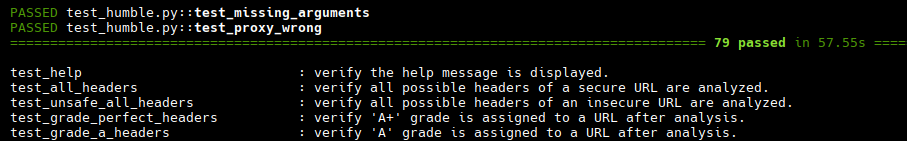
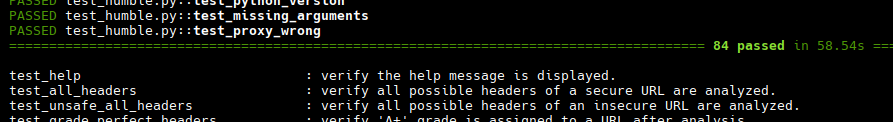
Feature: 5 new unit tests

Changed region(s): [[0.3326, 0.4672, 0.9071, 1.0], [0.0, 0.0, 1.0, 0.418], [0.0, 0.4672, 0.2419, 1.0]]

diff --git a/tests/test_humble.py b/tests/test_humble.py
@@ -80,6 +80,8 @@ HUMBLE_INVALID_EXPORT_FILE = 'non_existent_folder/humble_export_file_test'
 HUMBLE_L10N_DIR = path.join(HUMBLE_PROJECT_ROOT, 'l10n')
 HUMBLE_L10N_FILE = ('details.txt', 'details_es.txt')
 HUMBLE_MAIN_FILE = path.abspath(path.join(HUMBLE_TESTS_DIR, '..', 'humble.py'))
+HUMBLE_OUTPUT_PATHS = ('home/tests/test',
+                       'non_existent_path_for_humble/39332524')
 HUMBLE_WRONG_TESTSSL_DIR = '/dev/'
 PYTEST_CACHE_DIRS = [
     path.join(HUMBLE_TESTS_DIR, d)
@@ -96,7 +98,8 @@ TEST_URLS = ('https://github.com/rfc-st/humble',
              'https://httpbin.org/status/502', 'http://10.255.255.1',
              'ftp://google.com', 'https://\u0442\u0435\u0441\u0442.ru',
              'https://httpbin.org/status/529',
-             'https://httpbin.org/status/520')
+             'https://httpbin.org/status/520',
+             'http://nonexistenturl.com')
 
 REQUIRED_PYTHON_VERSION = (3, 11)
 
@@ -146,6 +149,9 @@ TEST_CFGS = {
     'test_export_html_empty_headers': (['-u', TEST_URLS[9], '-if',
                                        PATHS['GRADE_D'], '-o', 'html'],
                                        'HTML saved'),
+    'test_export_html_no_security_headers': (['-u', TEST_URLS[9], '-if',
+                                             PATHS['NO_SEC_HEADERS'], '-o',
+                                             'html'], 'HTML saved'),
     'test_export_json': (['-u', TEST_URLS[9], '-o', 'json', '-r'],
                          'JSON saved'),
     'test_export_json_brief': (['-u', TEST_URLS[9], '-o', 'json', '-b'],
@@ -168,6 +174,8 @@ TEST_CFGS = {
     'test_export_pdf_no_security_headers': (['-u', TEST_URLS[9], '-if',
                                              PATHS['NO_SEC_HEADERS'], '-o',
                                              'pdf'], 'PDF saved'),
+    'test_export_pdf_response_headers': (['-u', TEST_URLS[9], '-o', 'pdf',
+                                          '-r'], 'PDF saved'),
     'test_export_xlsx': (['-u', TEST_URLS[9], '-o', 'xlsx'], 'XLSX saved'),
     'test_export_xml': (['-u', TEST_URLS[9], '-o', 'xml'], 'XML saved'),
     'test_fingerprint_groups': (['-f'], 'Top 20 groups'),
@@ -189,10 +197,14 @@ TEST_CFGS = {
                            'Advertencias a revisar'),
     'test_l10n_grades': (['-grd', '-l', 'es'], 'No te obsesiones'),
     'test_license': (['-lic'], 'copyright'),
+    'test_missing_output_format': (['-u', TEST_URLS[9], '-op',
+                                    HUMBLE_OUTPUT_PATHS[0]], 'Error:'),
     'test_no_headers': (['-u', TEST_URLS[4], '-if', PATHS['NO_HEADERS']],
                         'contain'),
     'test_no_security_headers': (['-u', TEST_URLS[4], '-if',
                                   PATHS['NO_SEC_HEADERS']], 'are present'),
+    'test_non_existent_output_path': (['-u', TEST_URLS[9], '-o', 'txt', '-op',
+                                       HUMBLE_OUTPUT_PATHS[1]], 'Error:'),
     'test_owasp_compliance': (['-u', TEST_URLS[9], '-c'],
                               'non-recommended values'),
     'test_owasp_perfect_compliance': (['-u', TEST_URLS[9], '-c', '-if',
@@ -231,6 +243,8 @@ TEST_CFGS = {
     'test_url_insufficient_statistics': (['-u', TEST_URLS[6], '-if',
                                           PATHS['ALL_HEADERS'], '-a'],
                                          'reliable'),
+    'test_url_non_existent_statistics': (['-u', TEST_URLS[17], '-a',],
+                                         'Error:'),
     'test_user_agent': (['-u', TEST_URLS[9], '-ua', '4'],
                         'Selected the User-Agent'),
     'test_user_agent_list': (['-ua', '0'], 'source: '),
@@ -486,7 +500,7 @@ def cleanup_analysis_history():
             fsync(original_file.fileno())
 
 
-local_version = datetime.strptime('2026-01-17', '%Y-%m-%d').date()
+local_version = datetime.strptime('2026-01-23', '%Y-%m-%d').date()
 parser = ArgumentParser(
     formatter_class=lambda prog: RawDescriptionHelpFormatter(
         prog, max_help_position=34

diff --git a/humble.py b/humble.py
@@ -176,7 +176,7 @@ XFRAME_CHECK = 'X-Frame-Options ('
 XML_STRING = ('Ref: ', 'Value: ', 'Valor: ')
 
 current_time = datetime.now().strftime("%Y/%m/%d - %H:%M:%S")
-local_version = datetime.strptime('2026-01-17', '%Y-%m-%d').date()
+local_version = datetime.strptime('2026-01-23', '%Y-%m-%d').date()
 
 BANNER_VERSION = f'{URL_LIST[4]} | v.{local_version}'
 
@@ -1541,7 +1541,7 @@ def print_detail_s(id_mode, max_ln=False):
 
 
 def get_detail(id_mode, replace=False):
-    """"Print a message, optionally removing newlines"""
+    """Print a message, optionally removing newlines"""
     for i, line in enumerate(l10n_main):
         if line.startswith(id_mode):
             return (l10n_main[i+1].replace('\n', '')) if replace else \

diff --git a/docs/index.md b/docs/index.md
@@ -47,6 +47,7 @@ Rafa *'Bluesman'* Faura Cucalón; you can read about me on <a href="https://www.
 - Can display guidelines for enabling security HTTP response headers on popular frameworks, servers, and services.
 - Provides dozens of <a href="https://github.com/rfc-st/humble/#unit-tests" target="_blank">unit tests</a> to verify compatibility with your environment; requires <a href="https://pypi.org/project/pytest/"  target="_blank">pytest</a> and <a href="https://pypi.org/project/pytest-cov/" target="_blank">pytest-cov</a>.
 - Code reviewed via <a href="https://pypi.org/project/bandit/" target="_blank">Bandit</a>, <a href="https://marketplace.visualstudio.com/items?itemName=ms-python.flake8" target="_blank">Flake8</a>, <a href="https://github.com/joerick/pyinstrument" target="_blank">pyinstrument</a>, <a href="https://marketplace.visualstudio.com/items?itemName=SonarSource.sonarlint-vscode" target="_blank">SonarQube for IDE</a> and <a href="https://marketplace.visualstudio.com/items?itemName=sourcery.sourcery" target="_blank">Sourcery</a>.
+- Code reviewed via <a href="https://pypi.org/project/bandit/" target="_blank">Bandit</a>, <a href="https://github.com/nocomplexity/codeaudit" target="_blank">Codeaudit</a>, <a href="https://marketplace.visualstudio.com/items?itemName=ms-python.flake8" target="_blank">Flake8</a>, <a href="https://github.com/joerick/pyinstrument" target="_blank">pyinstrument</a>, <a href="https://marketplace.visualstudio.com/items?itemName=SonarSource.sonarlint-vscode" target="_blank">SonarQube for IDE</a>, <a href="https://marketplace.visualstudio.com/items?itemName=sourcery.sourcery" target="_blank">Sourcery</a> and <a href="https://github.com/jendrikseipp/vulture" target="_blank">vulture</a>.<br />
 - Tested, one by one, on thousands of URLs.
 - Tested on Docker 26.1, Kali Linux 2021.1, macOS 14.2.1 and Windows 10 20H2.
 - <a href="https://github.com/rfc-st/humble/blob/master/additional/fingerprint.txt" target="_blank">Almost</a> all the <a href="https://github.com/rfc-st/humble/blob/master/additional/owasp_best_practices.txt" target="_blank">code</a> available under one of the most permissive licenses: <a href="https://github.com/rfc-st/humble/blob/master/LICENSE" target="_blank">MIT</a>.
@@ -73,6 +74,6 @@ And a special greeting to Alba, Aleix, Alejandro (x3), Álvaro, Ana, Carlos (x3)
 <aside class="md-source-file">
 <span class="md-source-file__fact">
 Last updated on
-<span class="git-revision-date-localized-plugin git-revision-date-localized-plugin-datetime"><em>January 17, 2026</em></span>
+<span class="git-revision-date-localized-plugin git-revision-date-localized-plugin-datetime"><em>January 23, 2026</em></span>
 </span>
 </aside>

diff --git a/README.md b/README.md
@@ -6,7 +6,7 @@
 <a target="_blank" href="https://devguide.python.org/versions/" title="Minimum Python version required to run this tool"><img src="https://img.shields.io/badge/Python-%3E%3D3.11-blue?labelColor=343b41"></a>
 <a target="_blank" href="LICENSE" title="License of this tool"><img src="https://img.shields.io/badge/License-MIT-blue.svg?labelColor=343b41"></a>
 <a target="_blank" href="https://github.com/rfc-st/humble/releases" title="Latest release of this tool"><img src="https://img.shields.io/github/v/release/rfc-st/humble?display_name=release&label=Latest%20Release&labelColor=343b41"></a>
-<a target="_blank" href="https://github.com/rfc-st/humble/commits/master" title="Latest commit of this tool"><img src="https://img.shields.io/badge/Latest_Commit-2026--01--17-blue.svg?labelColor=343b41"></a>
+<a target="_blank" href="https://github.com/rfc-st/humble/commits/master" title="Latest commit of this tool"><img src="https://img.shields.io/badge/Latest_Commit-2026--01--23-blue.svg?labelColor=343b41"></a>
 <a target="_blank" href="https://pkg.kali.org/pkg/humble" title="Official tool in Kali Linux"><img src="https://img.shields.io/badge/Kali%20Linux-Tool-blue?labelColor=343b41"></a>
 <br />
 <a target="_blank" href="#" title="Featured on:"><img src="https://img.shields.io/badge/Featured%20on:-343b41"></a>

diff --git a/docs/unit_tests.md b/docs/unit_tests.md
@@ -24,6 +24,6 @@ Functions and unit tests of **test_humble.py**, in alphabetical order (work in p
 <aside class="md-source-file">
 <span class="md-source-file__fact">
 Last updated on
-<span class="git-revision-date-localized-plugin git-revision-date-localized-plugin-datetime"><em>January 17, 2026</em></span>
+<span class="git-revision-date-localized-plugin git-revision-date-localized-plugin-datetime"><em>January 23, 2026</em></span>
 </span>
 </aside>

diff --git a/docs/references.md b/docs/references.md
@@ -7,6 +7,6 @@ Classes and functions of **humble.py**, in alphabetical order (work in progress)
 <aside class="md-source-file">
 <span class="md-source-file__fact">
 Last updated on
-<span class="git-revision-date-localized-plugin git-revision-date-localized-plugin-datetime"><em>January 17, 2026</em></span>
+<span class="git-revision-date-localized-plugin git-revision-date-localized-plugin-datetime"><em>January 23, 2026</em></span>
 </span>
 </aside>
